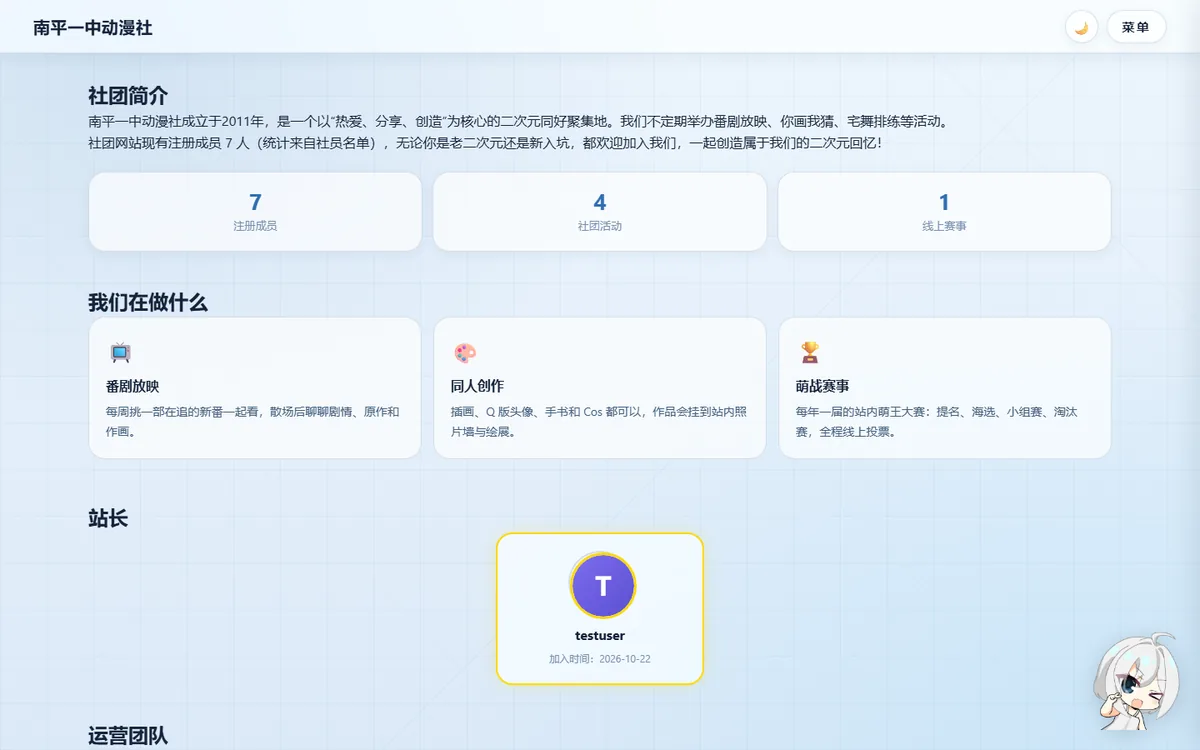
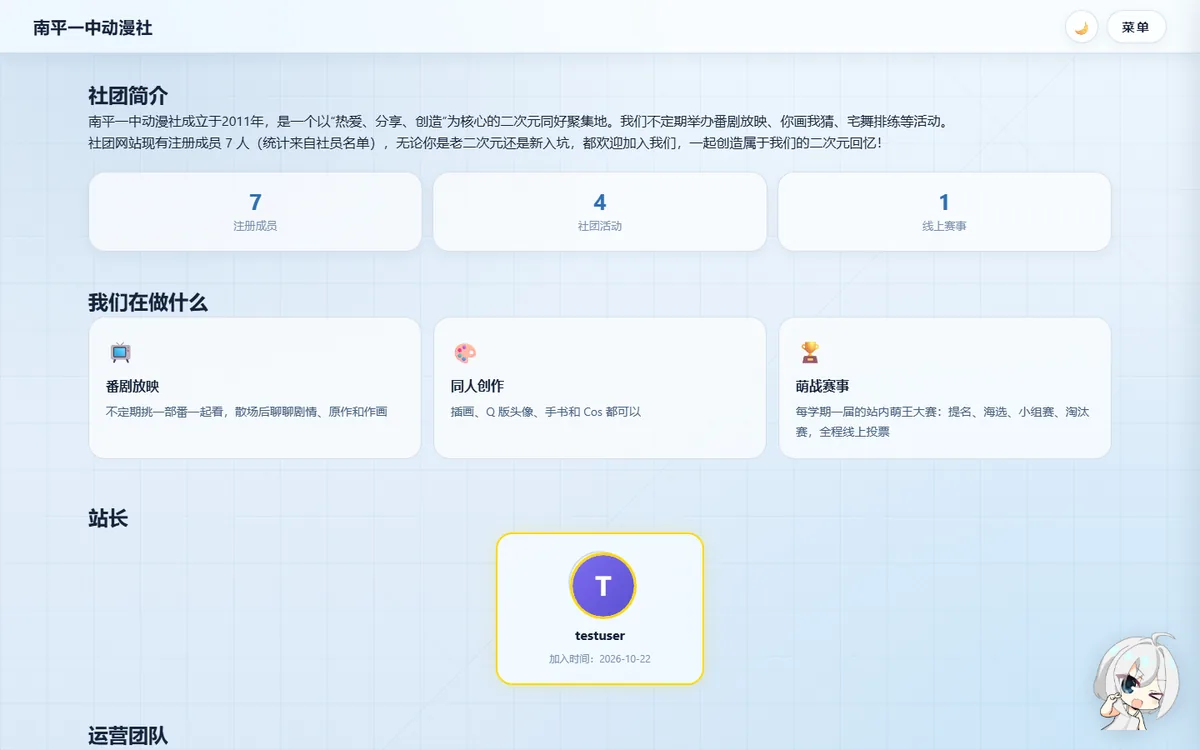
docs: 调整社团简介「我们在做什么」文案（v4.22.2）
- 番剧放映：由「每周挑一部」改为「不定期挑一部」（更贴合实际频率）
- 同人创作：去掉照片墙 / 绘展的承诺，只保留创作形式
- 萌战赛事：由「每年一届」改为「每学期一届」
- 同步重拍社团简介截图，保证 README 里的展示与实际页面一致

无代码逻辑改动，纯文案 + 截图：PATCH 发布

diff --git a/templates/about.html b/templates/about.html
@@ -29,17 +29,17 @@
     <div class="about-highlight">
         <div class="about-highlight-icon">📺</div>
         <h3>番剧放映</h3>
-        <p>每周挑一部在追的新番一起看，散场后聊聊剧情、原作和作画。</p>
+        <p>不定期挑一部番一起看，散场后聊聊剧情、原作和作画</p>
     </div>
     <div class="about-highlight">
         <div class="about-highlight-icon">🎨</div>
         <h3>同人创作</h3>
-        <p>插画、Q 版头像、手书和 Cos 都可以，作品会挂到站内照片墙与绘展。</p>
+        <p>插画、Q 版头像、手书和 Cos 都可以</p>
     </div>
     <div class="about-highlight">
         <div class="about-highlight-icon">🏆</div>
         <h3>萌战赛事</h3>
-        <p>每年一届的站内萌王大赛：提名、海选、小组赛、淘汰赛，全程线上投票。</p>
+        <p>每学期一届的站内萌王大赛：提名、海选、小组赛、淘汰赛，全程线上投票</p>
     </div>
 </div>
 
